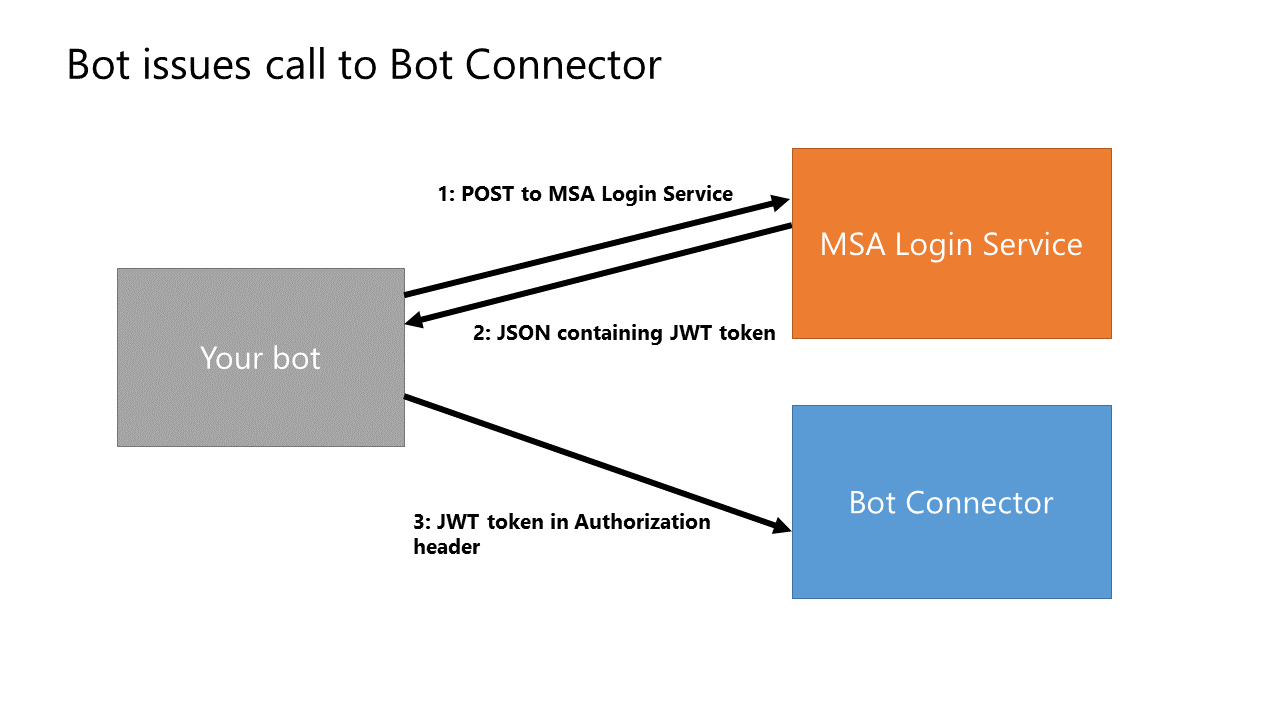
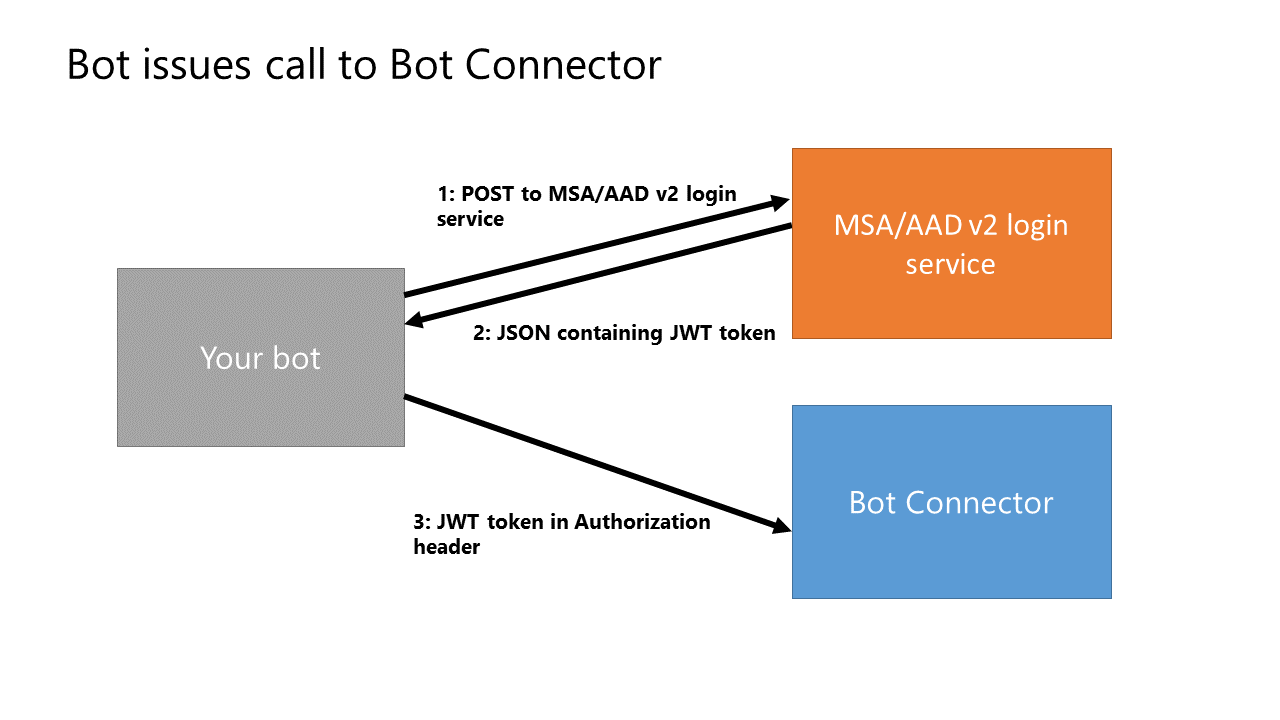
MSA name update

Changed region(s): [[0.625, 0.275, 0.8438, 0.3972], [0.4688, 0.2444, 0.5938, 0.3056], [0.3438, 0.275, 0.4062, 0.3361]]

diff --git a/en-us/restapi/Connector Authentication.md b/en-us/restapi/Connector Authentication.md
@@ -28,7 +28,7 @@ There are four authentication technologies used to establish trust between the b
 
 1. SSL/TLS is used on all service-to-service connections. X.509v3 certificates are used to establish the identity of all HTTPS services. **Clients should always inspect service certificates to ensure they are trusted and valid**. (Note: client certificates are NOT used as part of this scheme.)
 
-2. OAuth 2.0 login to the Microsoft Account (MSA) login server is used to generate a secure token that a bot can use to send messages. This token is a service-to-service token; no user login is required.
+2. OAuth 2.0 login to the Microsoft Account (MSA)/AAD v2 login service is used to generate a secure token that a bot can use to send messages. This token is a service-to-service token; no user login is required.
 
 3. JSON Web Tokens (JWT) are used to encode tokens sent to and from the bot. **Clients should fully verify all JWT tokens they receive**, according to the requirements outlined below.
 
@@ -41,9 +41,9 @@ This guide describes how to use all of these technologies using standard HTTPS a
 
 When a bot issues a call to the Bot Connector service, for example when sending a message to a user, it must first retrieve a token from the MSA service. This token may be cached until it expires (typically one hour). To authenticate yourself to the MSA service, you must supply your Microsoft app ID (available from the Bot Framework developer portal) and your Microsoft app password (visible only once when you generated your app). These parameters are used in step 1.
 
-![Authenticate to the MSA login service and then to the bot](/en-us/images/connector/auth_bot_to_bot_connector.png)
+![Authenticate to the MSA/AAD v2 login service and then to the bot](/en-us/images/connector/auth_bot_to_bot_connector.png)
 
-### (Bot -> Connector) Step 1: POST to the MSA login service to retrieve a token
+### (Bot -> Connector) Step 1: POST to the MSA/AAD v2 login service to retrieve a token
 
 Issue an HTTPS POST call to https://login.microsoftonline.com/common/oauth2/v2.0/token with the following form-encoded values:
 
@@ -52,7 +52,7 @@ Issue an HTTPS POST call to https://login.microsoftonline.com/common/oauth2/v2.0
     client_secret=<YOUR MICROSOFT APP PASSWORD>
     scope=https://graph.microsoft.com/.default
 
-Example request to the MSA server:
+Example request to the MSA/AAD server:
 
     -- connect to login.microsftonline.com --
     POST /common/oauth2/v2.0/token HTTP/1.1
@@ -61,11 +61,11 @@ Example request to the MSA server:
 
 
 
-### (Bot -> Connector) Step 2: Receive JSON containing JWT token from MSA login service
+### (Bot -> Connector) Step 2: Receive JSON containing JWT token from MSA/AAD v2 login service
 
-If your application is authorized by the MSA service, it will return a JSON payload containing your access token, its type, and its expiration (in seconds). The should is used in its existing form, without further escaping or encoding. It may be used until its expiration, and we encourage bot developers to cache and proactively refresh this token to keep it from impacting your bot's performance.
+If your application is authorized by the MSA/AAD v2 login service, it will return a JSON payload containing your access token, its type, and its expiration (in seconds). The should is used in its existing form, without further escaping or encoding. It may be used until its expiration, and we encourage bot developers to cache and proactively refresh this token to keep it from impacting your bot's performance.
 
-Example response from the MSA server:
+Example response from the MSA/AAD server:
 
     HTTP/1.1 200 OK
     ... (other headers) 
@@ -76,7 +76,7 @@ Example response from the MSA server:
 
 ### (Bot -> Connector) Step 3: Send this token to the Bot Connector service
 
-When you call the Bot Connector service, simply add an Authorization header with "Bearer" scheme and the raw JWT token as the authorization value. This header must be present on all calls to the Bot Connector service. The Bot Connector will authorize the request if the token is correctly formed, is not expired, and was generated by the MSA login service. Further checks are performed to ensure the token belongs to the bot executing the request.
+When you call the Bot Connector service, simply add an Authorization header with "Bearer" scheme and the raw JWT token as the authorization value. This header must be present on all calls to the Bot Connector service. The Bot Connector will authorize the request if the token is correctly formed, is not expired, and was generated by the MSA/AAD v2 login service. Further checks are performed to ensure the token belongs to the bot executing the request.
 
 Example request:
 
@@ -86,7 +86,7 @@ Example request:
     
     ... (JSON-serialized activity message follows)
 
-**NOTE**: DO NOT include this header on HTTP requests to other services. The JWT token from the MSA service is like a password -- it allows the holder of this token to perform operations on behalf of your bot. **Do not send your JWT token over unsecured channels, and do not send it to services other than the Bot Connector**.
+**NOTE**: DO NOT include this header on HTTP requests to other services. The JWT token from the MSA/AAD v2 login service is like a password -- it allows the holder of this token to perform operations on behalf of your bot. **Do not send your JWT token over unsecured channels, and do not send it to services other than the Bot Connector**.
 
 
 ## Authenticating calls from the Bot Connector service to the bot
